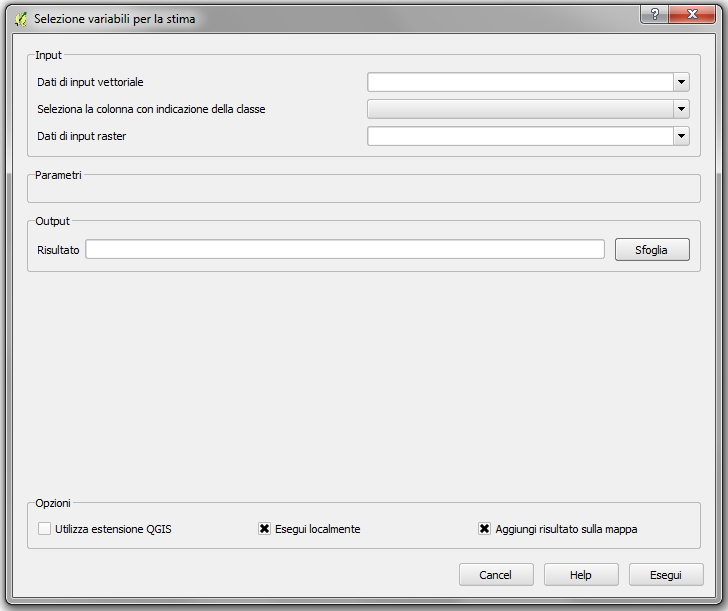
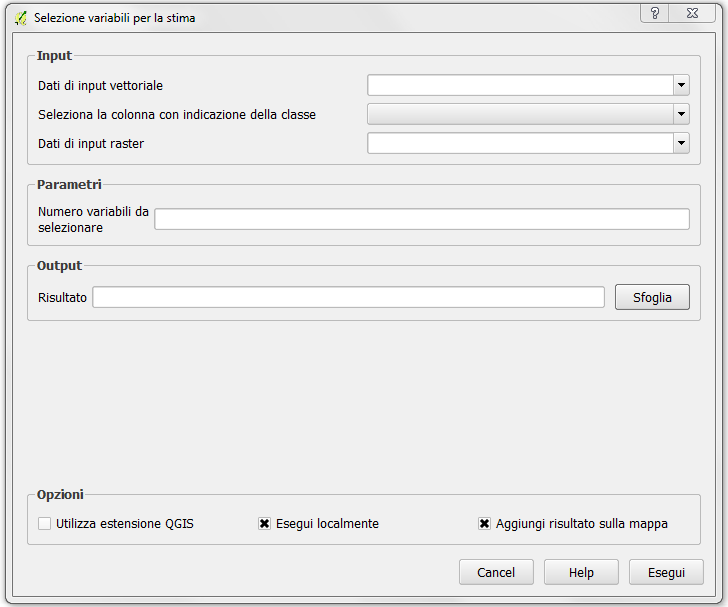
Update help selezione variabili per la stima

Changed region(s): [[0.0, 0.0, 1.0, 1.0], [0.1209, 0.5041, 0.8159, 0.5338]]

diff --git a/docs/source/tools/selezione_variabili_per_la_stima.rst b/docs/source/tools/selezione_variabili_per_la_stima.rst
@@ -1,7 +1,7 @@
 Selezione variabili per la stima
 =========================================
 
-Il modulo esegue la selezione delle variabili per la stima. La selezione viene effettuata in base o all'Akaike Information Criterion (AIC) o al Bayes Information Criterion (BIC).
+Il modulo esegue la selezione delle variabili per la stima. La selezione viene effettuata in base all'*F-test*. Il modulo effettua dei test lineari univariati sul modello di regressione. In particolare vengono fatti vari modelli che vengono testati via via in modo da massimizzare l'*F-score*. Nel dettaglio i passi sono tre: (i) il modello di regressione in esame e i dati sono ortogonalizzati rispetto a regressori costanti; (ii) viene calcolata la cross-correlazione tra i dati e i regressori; e (iii) la cross-correlazione è convertita in un *F-score* e un *p-value*.
 
 .. only:: latex
 
@@ -21,11 +21,8 @@ Input
 Parametri
 ------------
 
-**Selezionare il criterio da utilizzare**:
+**Numero variabili da selezionare**: numero intero inferiore al numero di varaibili disponibili.
 
-	* *aic*: Akaike Information Criterion;
-
-	* *bic*: Bayes Information Criterion.
 
 Output
 ------------
